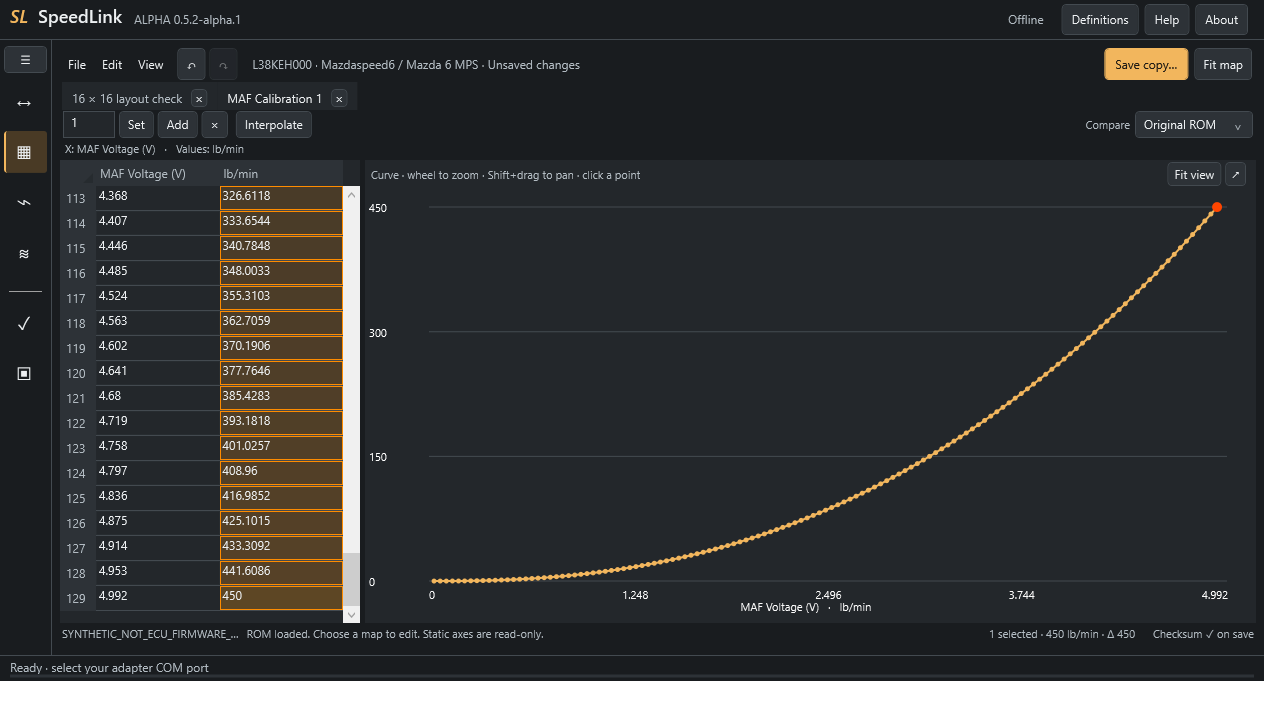
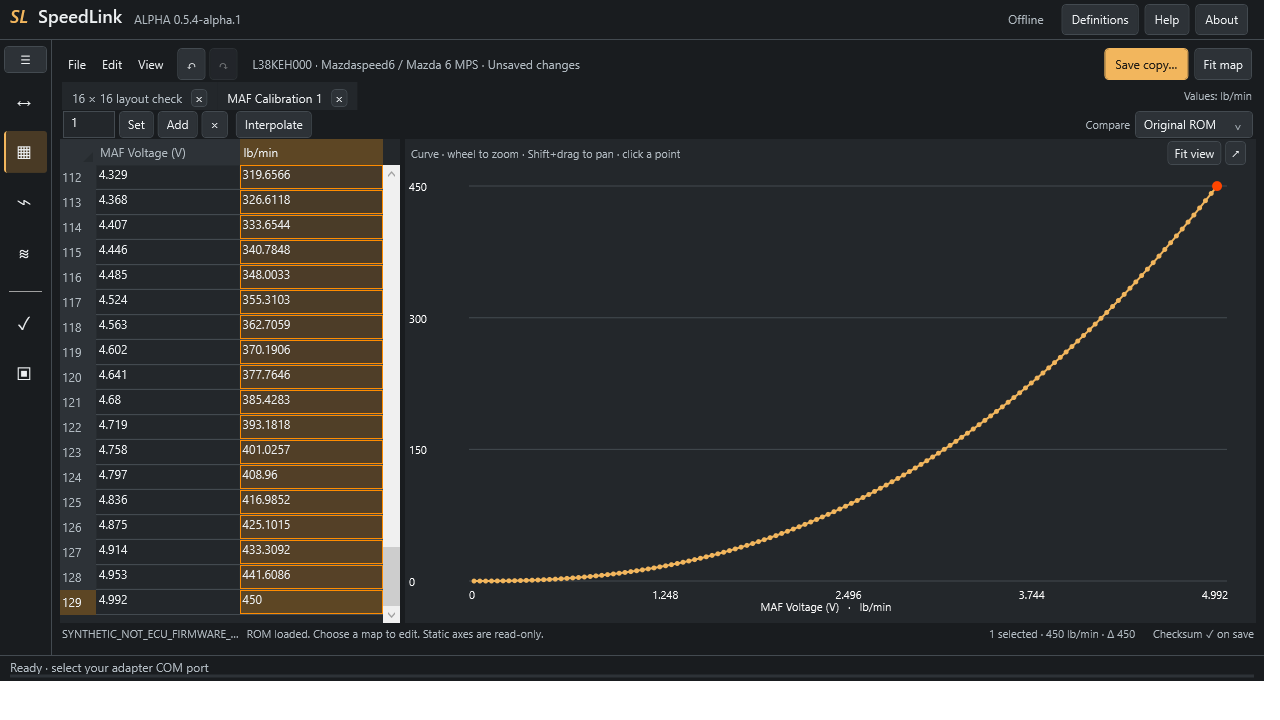
Align table axis labels with their breakpoints

diff --git a/dotnet/src/SpeedLink.Desktop/EditorWorkspace.xaml b/dotnet/src/SpeedLink.Desktop/EditorWorkspace.xaml
@@ -23,18 +23,21 @@
     <TreeView x:Name="MapTree" SelectedItemChanged="Map_Selected" VirtualizingStackPanel.IsVirtualizing="True" VirtualizingStackPanel.VirtualizationMode="Recycling" ScrollViewer.CanContentScroll="True"/>
    </DockPanel></Border>
    <GridSplitter x:Name="BrowserSplitter" Grid.Column="1" Width="5" HorizontalAlignment="Stretch" Background="{DynamicResource ShellBrush}" DragCompleted="LayoutSplitter_Completed"/>
-   <Grid Grid.Column="2" x:Name="MapWorkspace"><Grid.RowDefinitions><RowDefinition Height="30"/><RowDefinition Height="29"/><RowDefinition Height="21"/><RowDefinition Height="*"/></Grid.RowDefinitions>
-    <TabControl x:Name="MapTabs" SelectionChanged="Tab_Changed" Background="{DynamicResource PanelBrush}" BorderThickness="0"/>
+   <Grid Grid.Column="2" x:Name="MapWorkspace"><Grid.RowDefinitions><RowDefinition Height="30"/><RowDefinition Height="29"/><RowDefinition Height="*"/></Grid.RowDefinitions>
+    <DockPanel><TextBlock x:Name="ValueUnitsText" DockPanel.Dock="Right" Foreground="{DynamicResource MutedBrush}" FontSize="11" VerticalAlignment="Center" Margin="8,0,4,0" MaxWidth="180" TextTrimming="CharacterEllipsis"/><TabControl x:Name="MapTabs" SelectionChanged="Tab_Changed" Background="{DynamicResource PanelBrush}" BorderThickness="0"/></DockPanel>
     <DockPanel Grid.Row="1" Margin="3,1"><ComboBox x:Name="ChoiceBox" DockPanel.Dock="Left" Width="220" Visibility="Collapsed" SelectionChanged="Choice_Changed"/>
      <StackPanel DockPanel.Dock="Right" Orientation="Horizontal"><TextBlock Text="Compare" VerticalAlignment="Center" FontSize="11" Foreground="{DynamicResource MutedBrush}" Margin="8,0,5,0"/><ComboBox x:Name="BaselineBox" Width="118" SelectionChanged="Baseline_Changed" ToolTip="Comparison baseline"/></StackPanel>
      <StackPanel x:Name="EditTools" Orientation="Horizontal"><TextBox x:Name="OperandBox" Text="1" Width="52" Padding="5,2" Margin="0,0,4,0" ToolTip="Amount"/><Button Content="Set" Click="Set_Click"/><Button Content="Add" Click="Add_Click"/><Button Content="×" Click="Multiply_Click" ToolTip="Multiply"/><ComboBox x:Name="InterpolationBox" Width="88" SelectedIndex="0"><ComboBoxItem Content="Horizontal"/><ComboBoxItem Content="Vertical"/><ComboBoxItem Content="2D"/></ComboBox><Button Content="Interpolate" Click="Interpolate_Click" Margin="4,0,0,0"/></StackPanel>
     </DockPanel>
-    <TextBlock Grid.Row="2" x:Name="AxesText" Foreground="{DynamicResource MutedBrush}" FontSize="11" Margin="5,2" TextTrimming="CharacterEllipsis"/>
-    <Grid Grid.Row="3" x:Name="DataLayout" SizeChanged="DataLayout_SizeChanged"><Grid.RowDefinitions><RowDefinition x:Name="TableRow" Height="3*" MinHeight="0"/><RowDefinition x:Name="DataDividerRow" Height="5"/><RowDefinition x:Name="GraphRow" Height="2*" MinHeight="0"/></Grid.RowDefinitions><Grid.ColumnDefinitions><ColumnDefinition x:Name="TableColumn" Width="*"/><ColumnDefinition x:Name="DataDividerColumn" Width="0"/><ColumnDefinition x:Name="GraphColumn" Width="0"/></Grid.ColumnDefinitions>
-     <DataGrid x:Name="MapGrid" AutoGenerateColumns="False" CanUserAddRows="False" CanUserDeleteRows="False" CanUserReorderColumns="False" CanUserSortColumns="False" SelectionMode="Extended" SelectionUnit="Cell" HeadersVisibility="All" RowHeaderWidth="64" RowHeight="25" ColumnHeaderHeight="26" FontSize="12" EnableColumnVirtualization="True" EnableRowVirtualization="True" PreparingCellForEdit="Grid_PreparingEdit" CellEditEnding="Grid_EditEnding" SelectedCellsChanged="Grid_SelectionChanged" LoadingRow="Grid_LoadingRow">
-      <DataGrid.RowHeaderStyle><Style TargetType="DataGridRowHeader" BasedOn="{StaticResource {x:Type DataGridRowHeader}}"><Setter Property="Padding" Value="6,2"/></Style></DataGrid.RowHeaderStyle>
-      <DataGrid.ColumnHeaderStyle><Style TargetType="DataGridColumnHeader" BasedOn="{StaticResource {x:Type DataGridColumnHeader}}"><Setter Property="Padding" Value="4,2"/></Style></DataGrid.ColumnHeaderStyle>
+    <Grid Grid.Row="2" x:Name="DataLayout" SizeChanged="DataLayout_SizeChanged"><Grid.RowDefinitions><RowDefinition x:Name="TableRow" Height="3*" MinHeight="0"/><RowDefinition x:Name="DataDividerRow" Height="5"/><RowDefinition x:Name="GraphRow" Height="2*" MinHeight="0"/></Grid.RowDefinitions><Grid.ColumnDefinitions><ColumnDefinition x:Name="TableColumn" Width="*"/><ColumnDefinition x:Name="DataDividerColumn" Width="0"/><ColumnDefinition x:Name="GraphColumn" Width="0"/></Grid.ColumnDefinitions>
+     <Grid x:Name="TablePanel"><Grid.RowDefinitions><RowDefinition x:Name="AxisTitleRow" Height="21"/><RowDefinition Height="*"/></Grid.RowDefinitions><Grid.ColumnDefinitions><ColumnDefinition x:Name="AxisLabelColumn" Width="20"/><ColumnDefinition Width="*"/></Grid.ColumnDefinitions>
+      <Grid Grid.Column="1" x:Name="XAxisBand" Background="{DynamicResource PanelBrush}"><Grid.ColumnDefinitions><ColumnDefinition x:Name="AxisHeaderSpacer" Width="64"/><ColumnDefinition Width="*"/><ColumnDefinition x:Name="AxisScrollbarSpacer" Width="0"/></Grid.ColumnDefinitions><TextBlock Grid.Column="1" x:Name="XAxisText" Foreground="{DynamicResource TextBrush}" FontSize="11" TextAlignment="Center" VerticalAlignment="Center" TextTrimming="CharacterEllipsis"/></Grid>
+      <Border Grid.Row="1" x:Name="YAxisBand" Background="{DynamicResource PanelBrush}"><TextBlock x:Name="YAxisText" Foreground="{DynamicResource TextBrush}" FontSize="11" HorizontalAlignment="Center" VerticalAlignment="Center" TextTrimming="CharacterEllipsis"><TextBlock.LayoutTransform><RotateTransform Angle="-90"/></TextBlock.LayoutTransform></TextBlock></Border>
+     <DataGrid Grid.Row="1" Grid.Column="1" x:Name="MapGrid" AutoGenerateColumns="False" CanUserAddRows="False" CanUserDeleteRows="False" CanUserReorderColumns="False" CanUserSortColumns="False" SelectionMode="Extended" SelectionUnit="Cell" HeadersVisibility="All" RowHeaderWidth="64" RowHeight="25" ColumnHeaderHeight="26" FontSize="12" EnableColumnVirtualization="True" EnableRowVirtualization="True" PreparingCellForEdit="Grid_PreparingEdit" CellEditEnding="Grid_EditEnding" SelectedCellsChanged="Grid_SelectionChanged" LoadingRow="Grid_LoadingRow" ScrollViewer.ScrollChanged="Grid_ScrollChanged" SizeChanged="Grid_SizeChanged">
+      <DataGrid.RowHeaderStyle><Style TargetType="DataGridRowHeader" BasedOn="{StaticResource {x:Type DataGridRowHeader}}"><Setter Property="Padding" Value="2,2"/><Style.Triggers><DataTrigger Binding="{Binding Path=(local:EditorWorkspace.IsAxisSelected), RelativeSource={RelativeSource AncestorType=DataGridRow}}" Value="True"><Setter Property="Background" Value="#5D4624"/><Setter Property="Foreground" Value="{DynamicResource TextBrush}"/></DataTrigger></Style.Triggers></Style></DataGrid.RowHeaderStyle>
+      <DataGrid.ColumnHeaderStyle><Style TargetType="DataGridColumnHeader" BasedOn="{StaticResource {x:Type DataGridColumnHeader}}"><Setter Property="Padding" Value="4,2"/><Style.Triggers><DataTrigger Binding="{Binding Path=Column.(local:EditorWorkspace.IsAxisSelected), RelativeSource={RelativeSource Self}}" Value="True"><Setter Property="Background" Value="#5D4624"/><Setter Property="Foreground" Value="{DynamicResource TextBrush}"/></DataTrigger></Style.Triggers></Style></DataGrid.ColumnHeaderStyle>
      </DataGrid>
+     </Grid>
      <GridSplitter x:Name="DataSplitter" Grid.Row="1" Height="5" HorizontalAlignment="Stretch" Background="{DynamicResource ShellBrush}" DragCompleted="LayoutSplitter_Completed"/>
      <Grid x:Name="GraphPanel" Grid.Row="2" Background="{DynamicResource PanelBrush}"><Grid.RowDefinitions><RowDefinition Height="28"/><RowDefinition Height="*"/></Grid.RowDefinitions><DockPanel Margin="6,2"><StackPanel DockPanel.Dock="Right" Orientation="Horizontal"><Button x:Name="FitViewButton" Content="Fit view" ToolTip="Fit view" Click="ResetView_Click" Padding="6,1" MinHeight="23"/><Button Content="↗" Click="PopGraph_Click" ToolTip="Pop out graph" Padding="5,1" MinHeight="23"/></StackPanel><TextBlock x:Name="GraphTitle" Text="Curve / surface" Foreground="{DynamicResource MutedBrush}" FontSize="11" TextTrimming="CharacterEllipsis" VerticalAlignment="Center"/></DockPanel><local:TuningGraph Grid.Row="1" x:Name="Graph" Margin="4"/></Grid>
     </Grid>

diff --git a/dotnet/src/SpeedLink.Desktop/EditorLayoutChecks.cs b/dotnet/src/SpeedLink.Desktop/EditorLayoutChecks.cs
@@ -22,6 +22,7 @@ public partial class EditorWorkspace
         document = new(snapshot, path, inspector, codeGuard, [definition]); document.Changed += Document_Changed;
         MapTabs.Items.Clear(); OpenTable(sample);
         document.Apply(Enumerable.Range(0, 256).Select(i => { double x = i % 16 / 15d, y = i / 16 / 15d; return new CellEdit(sample, i, 12 + 24 * Math.Exp(-18 * ((x - .45) * (x - .45) + (y - .6) * (y - .6))) + 7 * Math.Sin(x * 6) * Math.Cos(y * 4)); }), "Synthetic surface fixture");
+        SelectCell(8 * 16 + 8);
         var measurements = new List<object>();
         foreach (var size in new[] { (1280d, 720d), (1024d, 700d) })
         {
@@ -35,12 +36,13 @@ public partial class EditorWorkspace
             var last = MapGrid.Columns[15].GetCellContent(MapGrid.Items[15]) ?? throw new InvalidOperationException("Last table cell was virtualized.");
             var lastRect = last.TransformToAncestor(MapGrid).TransformBounds(new Rect(last.RenderSize));
             if (scroll.ScrollableWidth > .5 || scroll.ScrollableHeight > .5 || lastRect.Right > MapGrid.ActualWidth + .5 || lastRect.Bottom > MapGrid.ActualHeight + .5 ||
-                MapGrid.FontSize < 12 || MapGrid.RowHeight < 22 || MapGrid.Columns.Any(c => c.ActualWidth < 44) || !AxesText.IsVisible || ViewMode != 4 || !GraphPanel.IsVisible || Grid.GetColumn(GraphPanel) != 2 || GraphPanel.ActualHeight > 210 || GraphPanel.ActualWidth < 150)
+                MapGrid.FontSize < 12 || MapGrid.RowHeight < 22 || MapGrid.Columns.Any(c => c.ActualWidth < 44) || !XAxisText.IsVisible || !YAxisText.IsVisible || ViewMode != 4 || !GraphPanel.IsVisible || Grid.GetColumn(GraphPanel) != 2 || GraphPanel.ActualHeight > 210 || GraphPanel.ActualWidth < 150)
                 throw new InvalidOperationException($"16×16 map does not fit at {size}: scroll {scroll.ScrollableWidth}/{scroll.ScrollableHeight}, grid {MapGrid.ActualWidth}/{MapGrid.ActualHeight}, last {lastRect}, columns {string.Join(',', MapGrid.Columns.Select(c => c.ActualWidth))}.");
             CaptureHost(Path.Combine(folder, $"Fit16x16-{size.Item1:0}x{size.Item2:0}.png"));
             measurements.Add(new { windowWidth = size.Item1, windowHeight = size.Item2, actualWindowWidth = Window.GetWindow(this).ActualWidth, actualWindowHeight = Window.GetWindow(this).ActualHeight, gridWidth = MapGrid.ActualWidth, gridHeight = MapGrid.ActualHeight, rowHeight = MapGrid.RowHeight,
                 columnWidth = MapGrid.Columns[0].ActualWidth, horizontalScroll = scroll.ScrollableWidth, verticalScroll = scroll.ScrollableHeight, lastCellVisible = true, previewWidth = GraphPanel.ActualWidth, previewHeight = GraphPanel.ActualHeight });
         }
+        await CheckTableAxes(sample);
         SelectCell(0); byte[] precise = document.Snapshot(); double exact = document.Read(sample, 0);
         if (!MapGrid.BeginEdit()) throw new InvalidOperationException("Cannot enter a fitted table cell."); UpdateLayout();
         if (MapGrid.Columns[0].GetCellContent(MapGrid.Items[0]) is not TextBox input || input.Text != exact.ToString("R", CultureInfo.InvariantCulture))
@@ -72,6 +74,9 @@ public partial class EditorWorkspace
         await Dispatcher.InvokeAsync(() => { }, System.Windows.Threading.DispatcherPriority.ApplicationIdle); UpdateLayout();
         if (!CurveList || MapGrid.Columns.Count != 2 || !MapGrid.Columns[0].IsReadOnly || MapGrid.Items.Count != maf.Count || ViewMode != 1)
             throw new InvalidOperationException("Long curve did not use breakpoint/value rows.");
+        if (XAxisBand.IsVisible || YAxisBand.IsVisible || AxisLabelColumn.ActualWidth != 0 || AxisTitleRow.ActualHeight != 0 ||
+            MapGrid.Columns[0].Header?.ToString() != maf.X.Name || MapGrid.Columns[1].Header?.ToString() != maf.Units)
+            throw new InvalidOperationException("Long curves did not retain their direct column labels.");
         BrowserColumn.Width = new(50); UpdateLayout(); LayoutSplitter_Completed(BrowserSplitter, new System.Windows.Controls.Primitives.DragCompletedEventArgs(0, 0, false)); UpdateLayout();
         if (BrowserColumn.ActualWidth < 160) throw new InvalidOperationException("Browser divider did not retain a usable width.");
         TableColumn.Width = new(340); UpdateLayout(); LayoutSplitter_Completed(DataSplitter, new System.Windows.Controls.Primitives.DragCompletedEventArgs(0, 0, false)); UpdateLayout();
@@ -103,7 +108,7 @@ public partial class EditorWorkspace
         if (!saved.BrowserHidden || saved.View != 2 || saved.BrowserWidth != 230) throw new InvalidOperationException("Layout did not persist.");
         curveWidth = 325; PopBrowser_Click(this, new()); PopGraph_Click(this, new()); SaveLayout();
         return new { passed = true, hardwareAccessed = false, synthetic = true, full16x16 = measurements, precisionPreserved = true, mapInfoUsesNoTableSpace = true,
-            popoutsPreserveEdits = true, surfaceFitsWideAndTallPanes = true, compactPreview = true, mafPoints = maf.Count, mafVoltageReadOnly = true, mafLastPointLinked = true, curveZoom = true,
+            popoutsPreserveEdits = true, surfaceFitsWideAndTallPanes = true, compactPreview = true, axisLabelsAligned = true, axisTitlesFrozen = true, selectedHeadersHighlighted = true, mafPoints = maf.Count, mafVoltageReadOnly = true, mafLastPointLinked = true, curveZoom = true,
             mafBulkEditsAndClipboard = true, checksumVerified = true, layoutPersisted = true };
     }
     internal void CheckRestoredLayout()

diff --git a/dotnet/src/SpeedLink.Desktop/EditorWorkspace.xaml.cs b/dotnet/src/SpeedLink.Desktop/EditorWorkspace.xaml.cs
@@ -158,13 +158,12 @@ public partial class EditorWorkspace : UserControl
             MapGrid.Columns.Clear(); MapGrid.ItemsSource = null; ChoiceBox.Visibility = Visibility.Collapsed;
             if (document is null || table is null)
             {
-                MapTitle.Text = "Select a map"; AxesText.Text = ""; HelpText.Text = "Choose a map from the list.";
+                MapTitle.Text = "Select a map"; RefreshAxes(); HelpText.Text = "Choose a map from the list.";
                 StorageText.Text = ""; CellText.Text = ""; GraphTitle.Text = "2D curve / 3D surface"; Graph.SetData(null, [], -1); return;
             }
             MapTitle.Text = table.Name;
             InterpolationBox.Visibility = CurveList ? Visibility.Collapsed : Visibility.Visible;
             HelpText.Text = table.Description;
-            AxesText.Text = table.Columns == 1 && table.Rows == 1 ? table.Units : $"X: {table.X.Name}" + (table.Rows > 1 ? $"   ·   Y: {table.Y.Name}" : "") + $"   ·   Values: {table.Units}";
             StorageText.Text = $"{table.Units}\n{table.Columns} × {table.Rows} · {table.Storage} · {(table.BigEndian ? "big endian" : "little endian")}\nAddress 0x{table.Address:X}" + (table.Bit is int b ? $" · bit {b}" : "") + "\nStock definition · " + document.Definition.Version + "\nAxes: static display values";
             var values = Enumerable.Range(0, table.Count).Select(i => document.Read(table, i)).ToArray();
             var finite = values.Where(double.IsFinite).ToArray(); double min = finite.DefaultIfEmpty(0).Min(), max = finite.DefaultIfEmpty(1).Max();
@@ -191,6 +190,7 @@ public partial class EditorWorkspace : UserControl
             }
             foreach (int index in selection.Where(i => i < table.Count)) MapGrid.SelectedCells.Add(new(MapGrid.Items[CurveList ? index : index / table.Columns], MapGrid.Columns[CurveList ? 1 : index % table.Columns]));
             MapGrid.RowHeaderWidth = table.Bits.Length > 0 ? 230 : CurveList ? 36 : 64;
+            RefreshAxes();
             Graph.SetData(table.IsChoice ? null : table, values, selection.FirstOrDefault(-1));
             GraphTitle.Text = table.IsChoice ? "Choose a row, then a named state" : table.Rows > 1 ? "3D · drag to rotate · wheel to zoom" : table.Columns > 1 ? "Curve · wheel to zoom · Shift+drag to pan · click a point" : "Scalar";
             UpdateCellText();
@@ -199,7 +199,11 @@ public partial class EditorWorkspace : UserControl
     }
     private void Grid_LoadingRow(object? sender, DataGridRowEventArgs e)
     {
-        if (table is not null && e.Row.Item is EditorRow row) e.Row.Header = table.Bits.Length > 0 ? table.BitNames[row.Index] : CurveList ? (row.Index + 1).ToString(CultureInfo.InvariantCulture) : table.Rows > 1 ? table.Y.Values[row.Index].ToString("G5", CultureInfo.InvariantCulture) : "Value";
+        if (table is not null && e.Row.Item is EditorRow row)
+        {
+            e.Row.Header = table.Bits.Length > 0 ? table.BitNames[row.Index] : CurveList ? (row.Index + 1).ToString(CultureInfo.InvariantCulture) : table.Rows > 1 ? table.Y.Values[row.Index].ToString("G5", CultureInfo.InvariantCulture) : "Value";
+            SetIsAxisSelected(e.Row, selectedAxisRows.Contains(row.Index));
+        }
     }
     private void Grid_PreparingEdit(object sender, DataGridPreparingCellForEditEventArgs e)
     {
@@ -222,7 +226,7 @@ public partial class EditorWorkspace : UserControl
     }
     private void Grid_SelectionChanged(object sender, SelectedCellsChangedEventArgs e)
     {
-        if (refreshing) return; UpdateCellText(); Graph.Select(SelectedIndices().FirstOrDefault(-1));
+        if (refreshing) return; UpdateSelectedAxes(); UpdateCellText(); Graph.Select(SelectedIndices().FirstOrDefault(-1));
         if (table?.IsChoice == true && document is not null)
         {
             refreshing = true; double value = document.Read(table, SelectedIndices().FirstOrDefault(0)); ChoiceBox.SelectedItem = ChoiceBox.Items.Cast<TuningState>().FirstOrDefault(s => s.Value == value); refreshing = false;

diff --git a/dotnet/src/SpeedLink.Desktop/EditorAxisChecks.cs b/dotnet/src/SpeedLink.Desktop/EditorAxisChecks.cs
@@ -1,0 +1,50 @@
+using System.Windows;
+using System.Windows.Controls;
+using System.Windows.Controls.Primitives;
+using System.Windows.Media;
+using SpeedLink.Core;
+
+namespace SpeedLink.Desktop;
+
+public partial class EditorWorkspace
+{
+    private async Task CheckTableAxes(TuningTable sample)
+    {
+        if (XAxisText.Text != sample.X.Name || YAxisText.Text != sample.Y.Name || ValueUnitsText.Text != "Values: " + sample.Units ||
+            XAxisText.ToolTip?.ToString() != sample.X.Name || YAxisText.ToolTip?.ToString() != sample.Y.Name)
+            throw new InvalidOperationException("Table labels do not match definition metadata.");
+        SelectCell(5 * 16 + 4); UpdateLayout();
+        await Dispatcher.InvokeAsync(() => { }, System.Windows.Threading.DispatcherPriority.ApplicationIdle);
+        var header = Descendants(MapGrid).OfType<DataGridColumnHeader>().Single(h => h.Column?.DisplayIndex == 4);
+        var row = (DataGridRow)MapGrid.ItemContainerGenerator.ContainerFromIndex(5);
+        if (!GetIsAxisSelected(header.Column) || !GetIsAxisSelected(row) || header.Background is not SolidColorBrush brush || brush.Color != Color.FromRgb(93, 70, 36))
+            throw new InvalidOperationException("The selected cell's axis headers are not visibly highlighted.");
+        MapGrid.SelectedCells.Clear();
+        foreach (int r in new[] { 2, 3 }) foreach (int c in new[] { 6, 7 }) MapGrid.SelectedCells.Add(new(MapGrid.Items[r], MapGrid.Columns[c]));
+        if (MapGrid.Columns.Count(GetIsAxisSelected) != 2 || selectedAxisRows.Count != 2 || GetIsAxisSelected(row))
+            throw new InvalidOperationException("Axis highlighting did not follow a rectangular selection.");
+        foreach (var column in MapGrid.Columns) column.Width = new(100);
+        MapGrid.RowHeight = 34; UpdateLayout();
+        await Dispatcher.InvokeAsync(() => { }, System.Windows.Threading.DispatcherPriority.ApplicationIdle); UpdateLayout();
+        var scroll = Descendants(MapGrid).OfType<ScrollViewer>().First();
+        // DataGrid reports vertical extent in rows when content scrolling is on.
+        if (scroll.ScrollableWidth < 100 || scroll.ScrollableHeight < .5)
+            throw new InvalidOperationException($"Axis scrolling fixture did not overflow: {scroll.ScrollableWidth}/{scroll.ScrollableHeight}.");
+        var xBefore = XAxisText.TransformToAncestor(TablePanel).TransformBounds(new Rect(XAxisText.RenderSize));
+        var yBefore = YAxisText.TransformToAncestor(TablePanel).TransformBounds(new Rect(YAxisText.RenderSize));
+        SelectCell(255);
+        scroll.ScrollToRightEnd(); scroll.ScrollToBottom();
+        await Dispatcher.InvokeAsync(() => { }, System.Windows.Threading.DispatcherPriority.ApplicationIdle); UpdateLayout();
+        var xAfter = XAxisText.TransformToAncestor(TablePanel).TransformBounds(new Rect(XAxisText.RenderSize));
+        var yAfter = YAxisText.TransformToAncestor(TablePanel).TransformBounds(new Rect(YAxisText.RenderSize));
+        if (xAfter != xBefore || yAfter != yBefore || scroll.HorizontalOffset == 0 || scroll.VerticalOffset == 0 ||
+            Math.Abs(AxisHeaderSpacer.ActualWidth - MapGrid.RowHeaderWidth) > .5 || AxisScrollbarSpacer.ActualWidth < 10)
+            throw new InvalidOperationException("Axis titles moved or lost their header alignment while scrolling.");
+        var lastRow = (DataGridRow)MapGrid.ItemContainerGenerator.ContainerFromIndex(15);
+        var lastHeader = Descendants(MapGrid).OfType<DataGridColumnHeader>().Single(h => h.Column?.DisplayIndex == 15);
+        if (!GetIsAxisSelected(lastRow) || lastHeader.Background is not SolidColorBrush lastBrush || lastBrush.Color != Color.FromRgb(93, 70, 36))
+            throw new InvalidOperationException("Scrolled headers lost the current selection.");
+        scroll.ScrollToLeftEnd(); scroll.ScrollToTop(); FitMap_Click(this, new()); UpdateLayout();
+        await Dispatcher.InvokeAsync(() => { }, System.Windows.Threading.DispatcherPriority.ApplicationIdle);
+    }
+}

diff --git a/dotnet/src/SpeedLink.Desktop/EditorAxes.cs b/dotnet/src/SpeedLink.Desktop/EditorAxes.cs
@@ -1,0 +1,67 @@
+using System.Globalization;
+using System.Windows;
+using System.Windows.Automation;
+using System.Windows.Controls;
+using System.Windows.Media;
+
+namespace SpeedLink.Desktop;
+
+public partial class EditorWorkspace
+{
+    public static readonly DependencyProperty IsAxisSelectedProperty = DependencyProperty.RegisterAttached(
+        "IsAxisSelected", typeof(bool), typeof(EditorWorkspace), new PropertyMetadata(false));
+    public static bool GetIsAxisSelected(DependencyObject target) => (bool)target.GetValue(IsAxisSelectedProperty);
+    public static void SetIsAxisSelected(DependencyObject target, bool value) => target.SetValue(IsAxisSelectedProperty, value);
+    private HashSet<int> selectedAxisRows = [];
+
+    private void RefreshAxes()
+    {
+        bool numeric = table is { IsChoice: false };
+        bool x = numeric && !CurveList && table!.Columns > 1;
+        bool y = numeric && !CurveList && table!.Rows > 1;
+        XAxisText.Text = x ? table!.X.Name : "";
+        YAxisText.Text = y ? table!.Y.Name : "";
+        XAxisText.ToolTip = XAxisText.Text; YAxisText.ToolTip = YAxisText.Text;
+        XAxisBand.Visibility = x ? Visibility.Visible : Visibility.Collapsed;
+        YAxisBand.Visibility = y ? Visibility.Visible : Visibility.Collapsed;
+        AxisTitleRow.Height = new(x ? 21 : 0); AxisLabelColumn.Width = new(y ? 20 : 0);
+        ValueUnitsText.Text = table is null ? "" : "Values: " + table.Units;
+        ValueUnitsText.ToolTip = ValueUnitsText.Text;
+        AutomationProperties.SetName(MapGrid, table is null ? "ROM map" :
+            table.Name + (x ? "; columns: " + table.X.Name : "") + (y ? "; rows: " + table.Y.Name : "") + "; values: " + table.Units);
+        if (y)
+        {
+            // The label uses the former row-header padding. Size breakpoints from
+            // their formatted text so a long value remains readable at any DPI.
+            var typeface = new Typeface(MapGrid.FontFamily, MapGrid.FontStyle, MapGrid.FontWeight, MapGrid.FontStretch);
+            double width = table!.Y.Values.Max(value => new FormattedText(value.ToString("G5", CultureInfo.InvariantCulture),
+                CultureInfo.InvariantCulture, FlowDirection.LeftToRight, typeface, MapGrid.FontSize, UiTheme.Text,
+                VisualTreeHelper.GetDpi(this).PixelsPerDip).WidthIncludingTrailingWhitespace);
+            MapGrid.RowHeaderWidth = Math.Max(44, Math.Ceiling(width) + 6);
+        }
+        UpdateSelectedAxes(); UpdateAxisGeometry();
+    }
+
+    private void UpdateSelectedAxes()
+    {
+        int[] indices = SelectedIndices();
+        selectedAxisRows = indices.Select(i => CurveList ? i : i / table!.Columns).ToHashSet();
+        var columns = indices.Select(i => CurveList ? 1 : i % table!.Columns).ToHashSet();
+        foreach (var column in MapGrid.Columns) SetIsAxisSelected(column, columns.Contains(column.DisplayIndex));
+        foreach (var row in Descendants(MapGrid).OfType<DataGridRow>())
+            SetIsAxisSelected(row, row.Item is EditorRow item && selectedAxisRows.Contains(item.Index));
+    }
+
+    private void Grid_ScrollChanged(object sender, ScrollChangedEventArgs e) => UpdateAxisGeometry();
+    private void Grid_SizeChanged(object sender, SizeChangedEventArgs e) => UpdateAxisGeometry();
+    private void UpdateAxisGeometry()
+    {
+        if (XAxisBand is null || MapGrid is null) return;
+        var scroll = Descendants(MapGrid).OfType<ScrollViewer>().FirstOrDefault();
+        double verticalBar = scroll?.ComputedVerticalScrollBarVisibility == Visibility.Visible ? SystemParameters.VerticalScrollBarWidth : 0;
+        double horizontalBar = scroll?.ComputedHorizontalScrollBarVisibility == Visibility.Visible ? SystemParameters.HorizontalScrollBarHeight : 0;
+        AxisHeaderSpacer.Width = new(MapGrid.RowHeaderWidth);
+        AxisScrollbarSpacer.Width = new(verticalBar);
+        YAxisText.Margin = new(0, MapGrid.ColumnHeaderHeight, 0, horizontalBar);
+    }
+}

diff --git a/dotnet/src/SpeedLink.Desktop/EditorDocking.cs b/dotnet/src/SpeedLink.Desktop/EditorDocking.cs
@@ -112,13 +112,13 @@ public partial class EditorWorkspace
         TableRow.Height = new(below ? tableFraction : 1, GridUnitType.Star); GraphRow.Height = below ? new(1 - tableFraction, GridUnitType.Star) : new(0);
         DataDividerRow.Height = new(below ? 5 : 0); DataDividerColumn.Width = new(preview || beside ? 5 : 0);
         TableColumn.Width = beside && CurveList ? new(Math.Min(curveWidth, Math.Max(180, DataLayout.ActualWidth - 200))) : new(beside ? tableFraction : 1, GridUnitType.Star);
-        var thumbnail = TablePreviewSize.Calculate(DataLayout.ActualWidth, DataLayout.ActualHeight, table?.Columns ?? 1, MapGrid.RowHeaderWidth);
+        var thumbnail = TablePreviewSize.Calculate(DataLayout.ActualWidth, DataLayout.ActualHeight, table?.Columns ?? 1, MapGrid.RowHeaderWidth + AxisLabelColumn.Width.Value);
         GraphColumn.Width = preview ? new(thumbnail.Width) : beside ? new(1 - tableFraction, GridUnitType.Star) : new(0);
         GraphPanel.Height = preview ? thumbnail.Height : double.NaN; GraphPanel.VerticalAlignment = preview ? VerticalAlignment.Top : VerticalAlignment.Stretch;
         Graph.SetCompactPreview(preview); FitViewButton.Content = preview ? "↺" : "Fit view";
         if (preview) GraphTitle.Text = "3D preview";
         else GraphTitle.Text = surface ? "3D · drag to rotate · wheel to zoom" : "Curve · wheel to zoom · Shift+drag to pan · click a point";
-        MapGrid.Visibility = graphOnly ? Visibility.Collapsed : Visibility.Visible; GraphPanel.Visibility = floating || ViewMode != 2 ? Visibility.Visible : Visibility.Collapsed;
+        TablePanel.Visibility = graphOnly ? Visibility.Collapsed : Visibility.Visible; GraphPanel.Visibility = floating || ViewMode != 2 ? Visibility.Visible : Visibility.Collapsed;
         Grid.SetRow(DataSplitter, beside ? 0 : 1); Grid.SetColumn(DataSplitter, beside ? 1 : 0);
         DataSplitter.Width = beside ? 5 : double.NaN; DataSplitter.Height = beside ? double.NaN : 5;
         DataSplitter.HorizontalAlignment = beside ? HorizontalAlignment.Center : HorizontalAlignment.Stretch;

diff --git a/dotnet/src/SpeedLink.Desktop/MainWindow.xaml.cs b/dotnet/src/SpeedLink.Desktop/MainWindow.xaml.cs
@@ -17,7 +17,7 @@ namespace SpeedLink.Desktop;
 
 public partial class MainWindow : Window
 {
-    public const string Version = "0.5.3-alpha.1";
+    public const string Version = "0.5.4-alpha.1";
     private void Editor_Click(object sender, RoutedEventArgs e) => Navigate(1);
     private readonly string vault;
     private readonly RomInspector inspector = new();

diff --git a/README.md b/README.md
@@ -4,7 +4,7 @@ Open-source ROM reading, data logging and offline ROM editing for Mazdaspeed and
 
 [![C# checks](https://github.com/mrphyslaw/SpeedLink/actions/workflows/checks-dotnet.yml/badge.svg)](https://github.com/mrphyslaw/SpeedLink/actions/workflows/checks-dotnet.yml)
 
-**[Download v0.5.3-alpha.1](https://github.com/mrphyslaw/SpeedLink/releases/tag/v0.5.3-alpha.1)** — a single Windows EXE, with no installer or .NET installation required.
+**[Download v0.5.4-alpha.1](https://github.com/mrphyslaw/SpeedLink/releases/tag/v0.5.4-alpha.1)** — a single Windows EXE, with no installer or .NET installation required.
 
 SpeedLink can dump unknown 1 MiB MZR DISI ROMs, create two-pass verified backups,
 log stock-ECU data, review recordings and edit the seven supported stock ROM layouts.
@@ -52,6 +52,9 @@ the map browser and graph can be resized, hidden or moved into separate windows.
 Use **View** for layout options, map information and changed maps. 3D tables can
 keep a small surface preview at the upper-right of the grid; MAF curves keep
 their value list on the left and graph on the right.
+Axis names sit directly above the column breakpoints and beside the row
+breakpoints. Selected row and column headers highlight together; value units
+stay beside the map tabs.
 
 1. Open **Editor**, then **File → Open ROM…**.
 2. Select a map from the categorized list or use search. Related numbered maps
@@ -136,7 +139,7 @@ Related RomRaider definitions are available in [MazdaSpeedDefs](https://github.c
 
 ## Status and development
 
-**Current release: [v0.5.1-alpha.1](https://github.com/mrphyslaw/SpeedLink/releases/tag/v0.5.1-alpha.1), a Windows Workbench alpha.**
+**Current release: [v0.5.4-alpha.1](https://github.com/mrphyslaw/SpeedLink/releases/tag/v0.5.4-alpha.1), a Windows Workbench alpha.**
 
 - **Available:** ROM reading, two-pass verified backups, known-ROM checks and
   checksum correction to a separate file; live logging, charts, CSV recording
@@ -144,7 +147,7 @@ Related RomRaider definitions are available in [MazdaSpeedDefs](https://github.c
   The reader covers the 1 MiB MZR DISI ECU family.
 - **Logger coverage:** seven ROM profiles with 35–38 stock-ROM parameters each.
   No logging patch is required. See [coverage and exclusions](definitions/logging/All_ROM_Coverage.md).
-- **Checked:** 249 C# tests, 2,030 native-derived logger vectors and 174,741
+- **Checked:** 261 C# tests, 2,030 native-derived logger vectors and 174,741
   independently decoded editor values/switches. Seven-profile editor desktop
   checks cover direct cell entry, comparison, undo/redo and byte-identical no-edit
   exports. See [validation](dotnet/docs/Validation.md). Physical

diff --git a/docs/editor/README.md b/docs/editor/README.md
@@ -14,6 +14,10 @@ window sizes with app navigation collapsed. Larger maps retain scrolling.
 The ☰ button expands or collapses navigation; Ctrl+B hides or restores the
 map browser. Use **View** for layout options and floating panels.
 
+Axis names sit directly above the column breakpoints and beside the row
+breakpoints, with value units beside the map tabs. The labels stay visible while
+scrolling. Selecting cells highlights their row and column headers.
+
 The 16×16 and MAF examples use synthetic layout/curve fixtures. The 16×16
 example is a layout test, not an added stock calibration map. VVT screenshots
 show an L38KEH000 ROM example. These are interface examples, not tuning advice.
@@ -27,7 +31,7 @@ numeric cells directly. Curves use the definition's physical axis values.
 Long MAF curves use a voltage/value list beside the graph. Click any point to
 reach its value, use the wheel to zoom, and Shift+drag to pan. Static breakpoints
 stay read-only. Arithmetic and interpolation work across selected points; copy
-and paste retain full precision. Units and axis names stay above the table.
+and paste retain full precision. Axis names and units label the list's two columns.
 
 ## Rotatable 3D surfaces
 

diff --git a/dotnet/docs/Validation.md b/dotnet/docs/Validation.md
@@ -1,5 +1,20 @@
 # C# validation
 
+## Table axis labels — 0.5.4-alpha.1
+
+- 261 C# regression tests remain required, alongside the editor, logger,
+  recording, Workbench and definition-import desktop workflows.
+- Seven layout workflows check labels against definition metadata, visible
+  selection highlighting, rectangular selections and fixed axis-title positions
+  while both table scrollbars are in use. Scrolled headers retain highlighting.
+- A complete synthetic 16×16 grid and the 3D preview still fit at 1024×700 and
+  1280×720 logical window sizes without table scrolling. Long row-axis names
+  remain visible beside the breakpoints; labels consume no additional map height.
+- The existing 129-point MAF list retains its direct column labels, read-only
+  breakpoints, final-point navigation, arithmetic, interpolation and clipboard
+  checks. Precision, exact undo and mandatory checksum exports remain covered.
+- These are offline UI changes; no new adapter or real-ECU validation is claimed.
+
 ## Table preview — 0.5.3-alpha.1
 
 - 261 C# tests pass, including preview sizing and layout persistence.

diff --git a/docs/EDITOR.md b/docs/EDITOR.md
@@ -25,6 +25,12 @@ metadata and cannot be edited. No extended-table patch is installed by this edit
 
 ## Edit and view
 
+Column-axis names sit directly above their breakpoints; row-axis names run
+beside the row breakpoints. Labels stay visible when the table scrolls. Selected
+cells highlight their row and column headers, and value units sit beside the map
+tabs. Scalar and switch controls omit unused axis labels. Long MAF curves keep
+their directly labeled breakpoint/value columns.
+
 - Double-click a numeric cell, type a value using a decimal point, and press Enter.
 - Drag or Shift-click to select a rectangle. Set, Add and × apply the amount in
   the adjoining box. Use a negative Add amount to subtract.
